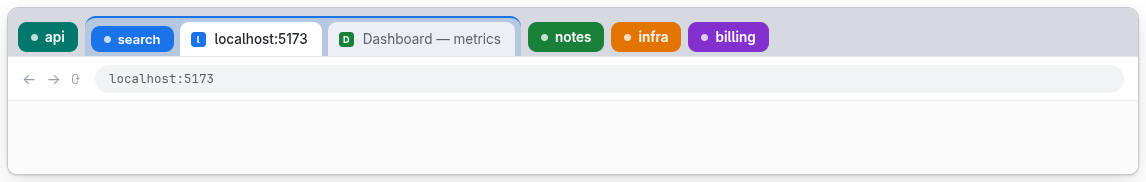
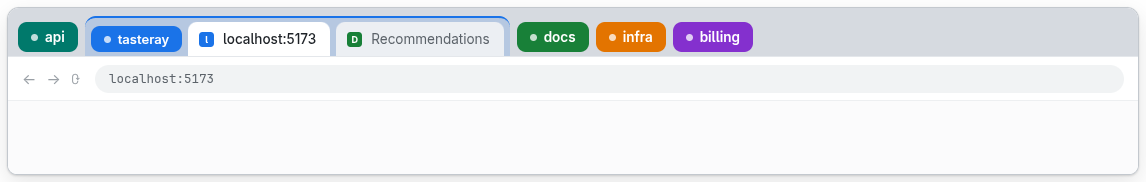
docs: name one group in the picture after the author's company
Generic names everywhere else; this one is on purpose.

Claude-Session: https://claude.ai/code/session_011UCn8QUt1y9Z7XMwcGXr37

Changed region(s): [[0.0916, 0.0824, 0.6719, 0.3022]]

diff --git a/README.md b/README.md
@@ -33,7 +33,7 @@
   workspace's tabs and opens pages there without taking focus.
 
 <p align="center">
-  <img src="assets/tab-strip.png" alt="A browser tab strip: five coloured groups named api, search, notes, infra and billing. The search group is open and holds two tabs; the other four are folded into a single chip each." width="820" />
+  <img src="assets/tab-strip.png" alt="A browser tab strip: five coloured groups named api, tasteray, docs, infra and billing. The tasteray group is open and holds two tabs; the other four are folded into a single chip each." width="820" />
 </p>
 
 One group per workspace, named after it. The one you are in is open; the rest
